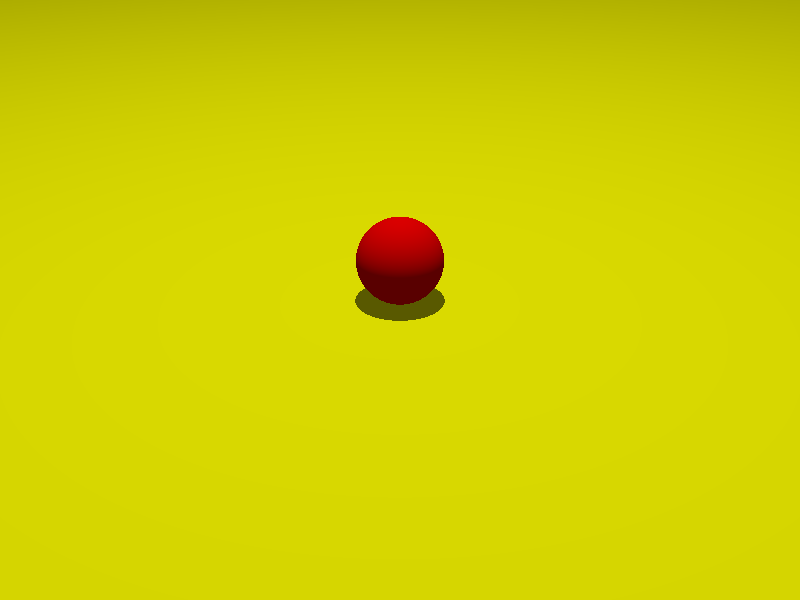
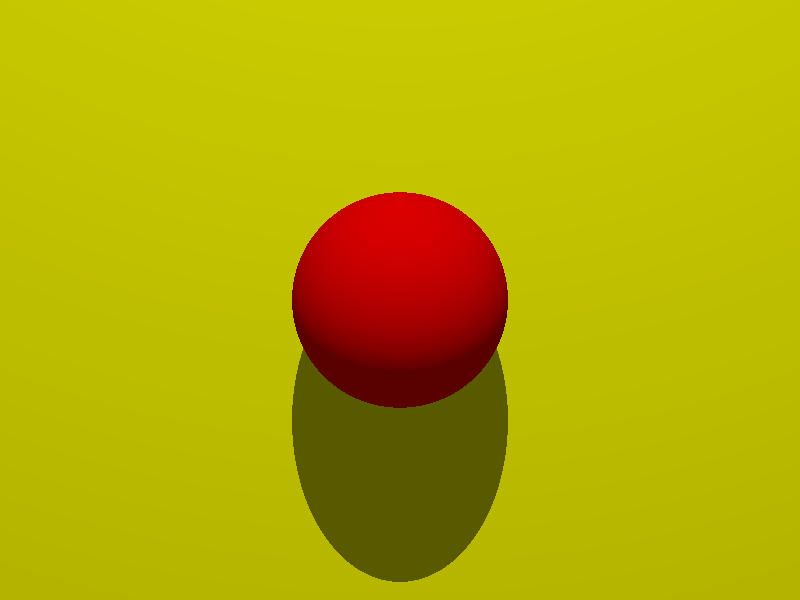
Add ambient light

diff --git a/PovRay/app/povview_tracer.py b/PovRay/app/povview_tracer.py
@@ -15,7 +15,7 @@ from gi.repository import GooCanvas, GdkPixbuf
 MAX_BOUNCES = 2
 LIGHT_SOURCE_SIZE = 100
 RAYS_CASTS_PER_PIXEL = 1
-AMBIENT = 0.2
+AMBIENT = 0.1
 
 
 class Tracer:
@@ -41,7 +41,6 @@ class Tracer:
         self.size = size
         self._img = None
 
-    # TODO: Up vector is still inverted
     def ray_generator_row(self, y):
         w, h = self.size
 
@@ -98,7 +97,7 @@ class Tracer:
         return self.calculate_light(ray, hit)
 
     def calculate_light(self, ray, hit):
-        incoming_light = RGB(0)
+        incoming_light = hit.obj.color * RGB(AMBIENT)
         for light in self.lights:
             light_ray = Ray(
                 light.location, (ray.at(hit.t) - light.location).normalized()
@@ -107,7 +106,7 @@ class Tracer:
             if light_ray.at(light_hit.t).round(6) == ray.at(hit.t).round(6):
                 cos1 = hit.normal.dot((light.location - ray.at(hit.t)).normalized())
                 incoming_light += hit.obj.color * light.color * cos1
-        return incoming_light
+        return incoming_light.limit()
 
     def trace(self, ray):
         match self.model:

diff --git a/PovRay/app/povview_math.py b/PovRay/app/povview_math.py
@@ -229,6 +229,9 @@ class Vec3:
             return Vec3(0, 0, 0)
         return Vec3(self._x / d, self._y / d, self._z / d)
 
+    def inverted(self):
+        return Vec3(-self._x, -self._y, -self._z)
+
     def mag(self):
         return sqrt(self._x**2 + self._y**2 + self._z**2)
 
@@ -365,7 +368,7 @@ class RGB:
         return self
 
     def __eq__(self, c2):
-        return self._rgb == c2
+        return self._rgb == c2.rgb
 
     def __add__(self, c2):
         if isinstance(c2, Number):

diff --git a/PovRay/app/povview_things.py b/PovRay/app/povview_things.py
@@ -713,7 +713,7 @@ class Camera:
             self.up = Vec3(0, 0, -1)
             self.right = self.forward.cross(self.up).normalized()
 
-        self.up = self.forward.cross(self.right).normalized()
+        self.up = self.forward.cross(self.right).normalized().inverted()
 
         self.angle = camera_data["angle"]
 
